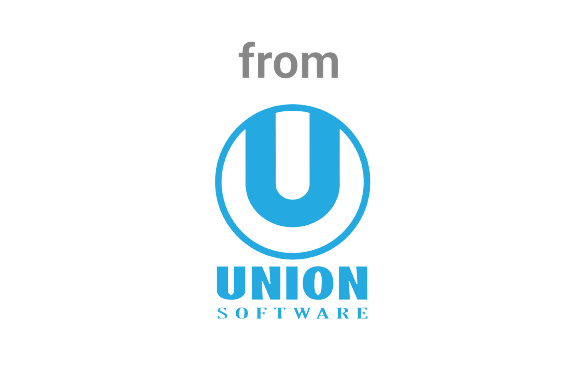
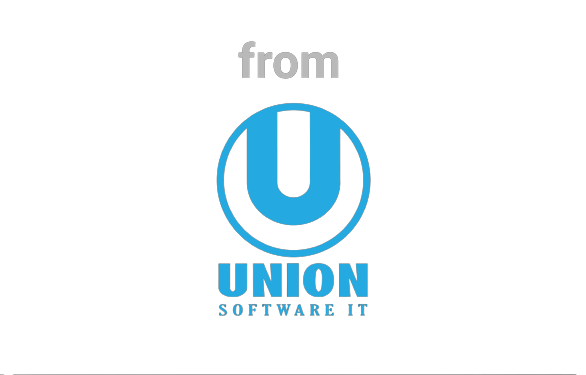
svg add

diff --git a/lib/Authentication/Login Register/login_signup_page.dart b/lib/Authentication/Login Register/login_signup_page.dart
@@ -3,6 +3,7 @@
 import 'package:cloud_firestore/cloud_firestore.dart';
 import 'package:firebase_auth/firebase_auth.dart';
 import 'package:flutter/material.dart';
+import 'package:flutter_svg/flutter_svg.dart';
 import 'package:page_transition/page_transition.dart';
 import 'package:uni_fit/Pages/start_page.dart';
 import 'package:uni_fit/Authentication/Google SignIn/google_signIn_button.dart';
@@ -79,10 +80,9 @@ class _LoginSignupPageState extends State<LoginSignupPage> {
                                           ],
                                         ),
                                         child: ClipOval(
-                                          child: Image.asset(
-                                            'assets/images/logo.png',
-                                            fit: BoxFit.contain,
-                                          ),
+                                          child: SvgPicture.asset(
+                                              'assets/svg/uni_logo.svg',
+                                              fit: BoxFit.fitHeight),
                                         ),
                                       ),
                                     ),
@@ -354,10 +354,9 @@ class _LoginSignupPageState extends State<LoginSignupPage> {
                                             ],
                                           ),
                                           child: ClipOval(
-                                            child: Image.asset(
-                                              'assets/images/logo.png',
-                                              fit: BoxFit.contain,
-                                            ),
+                                            child: SvgPicture.asset(
+                                                'assets/svg/uni_logo.svg',
+                                                fit: BoxFit.fitHeight),
                                           ),
                                         ),
                                       ),
